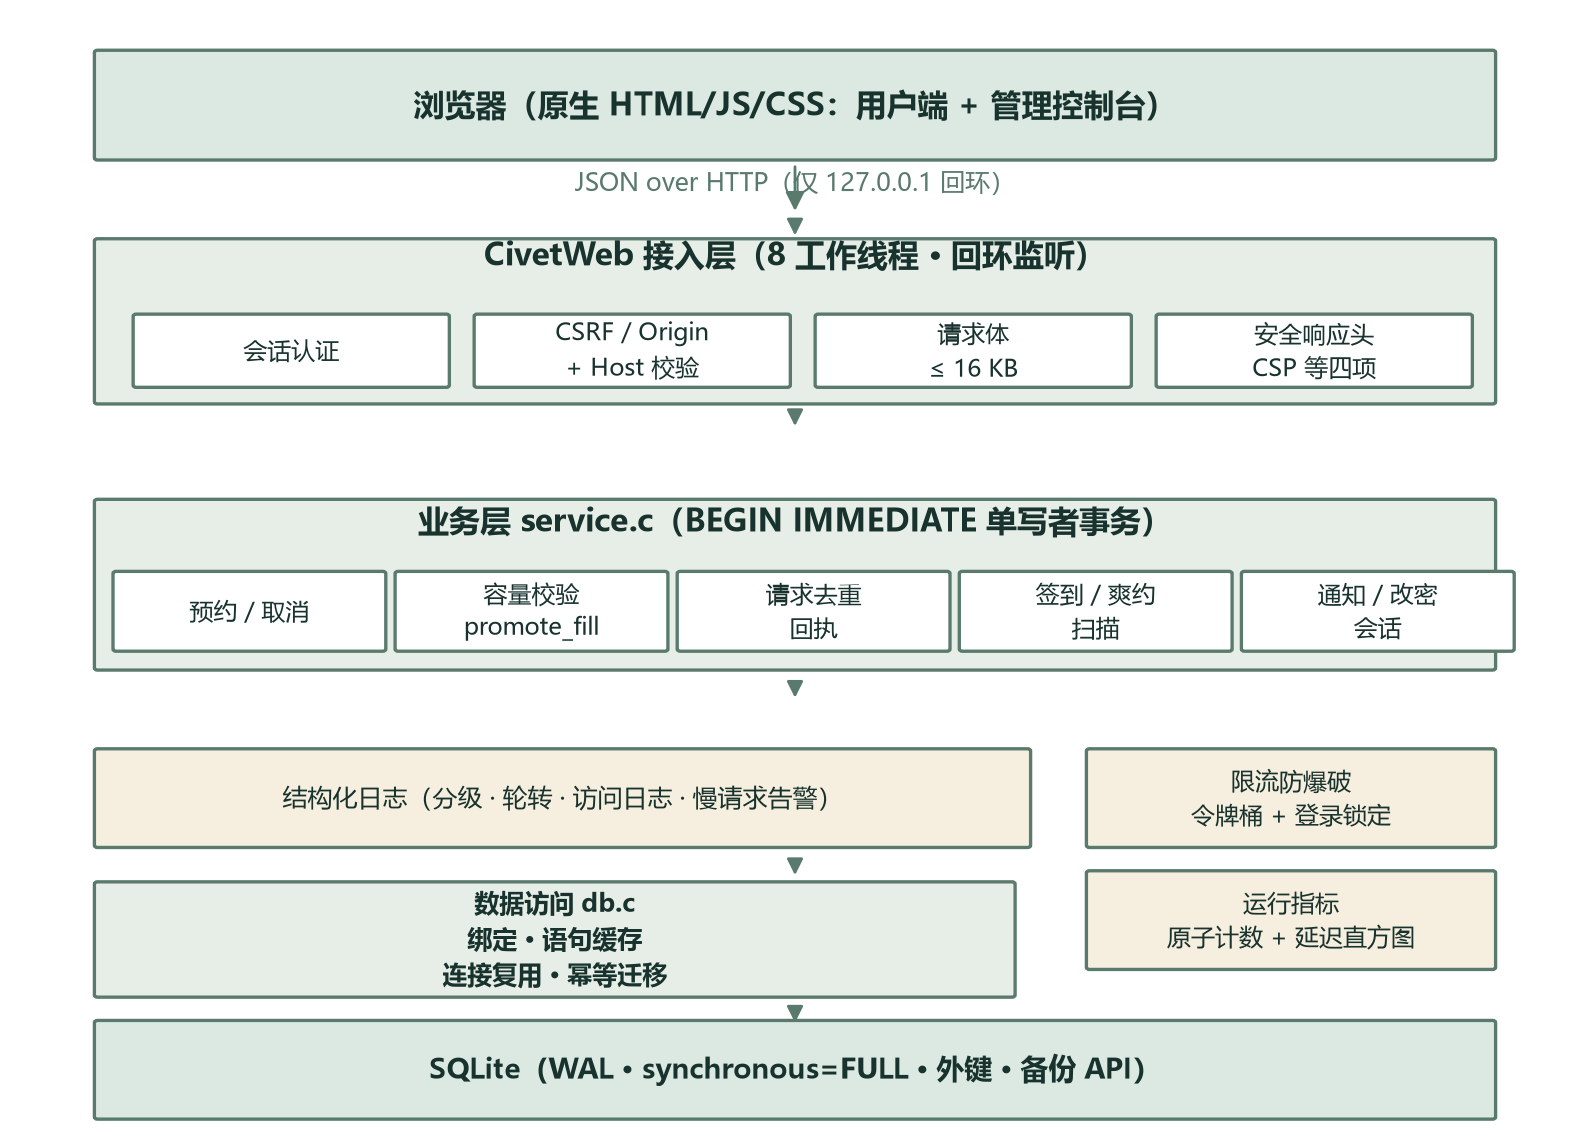
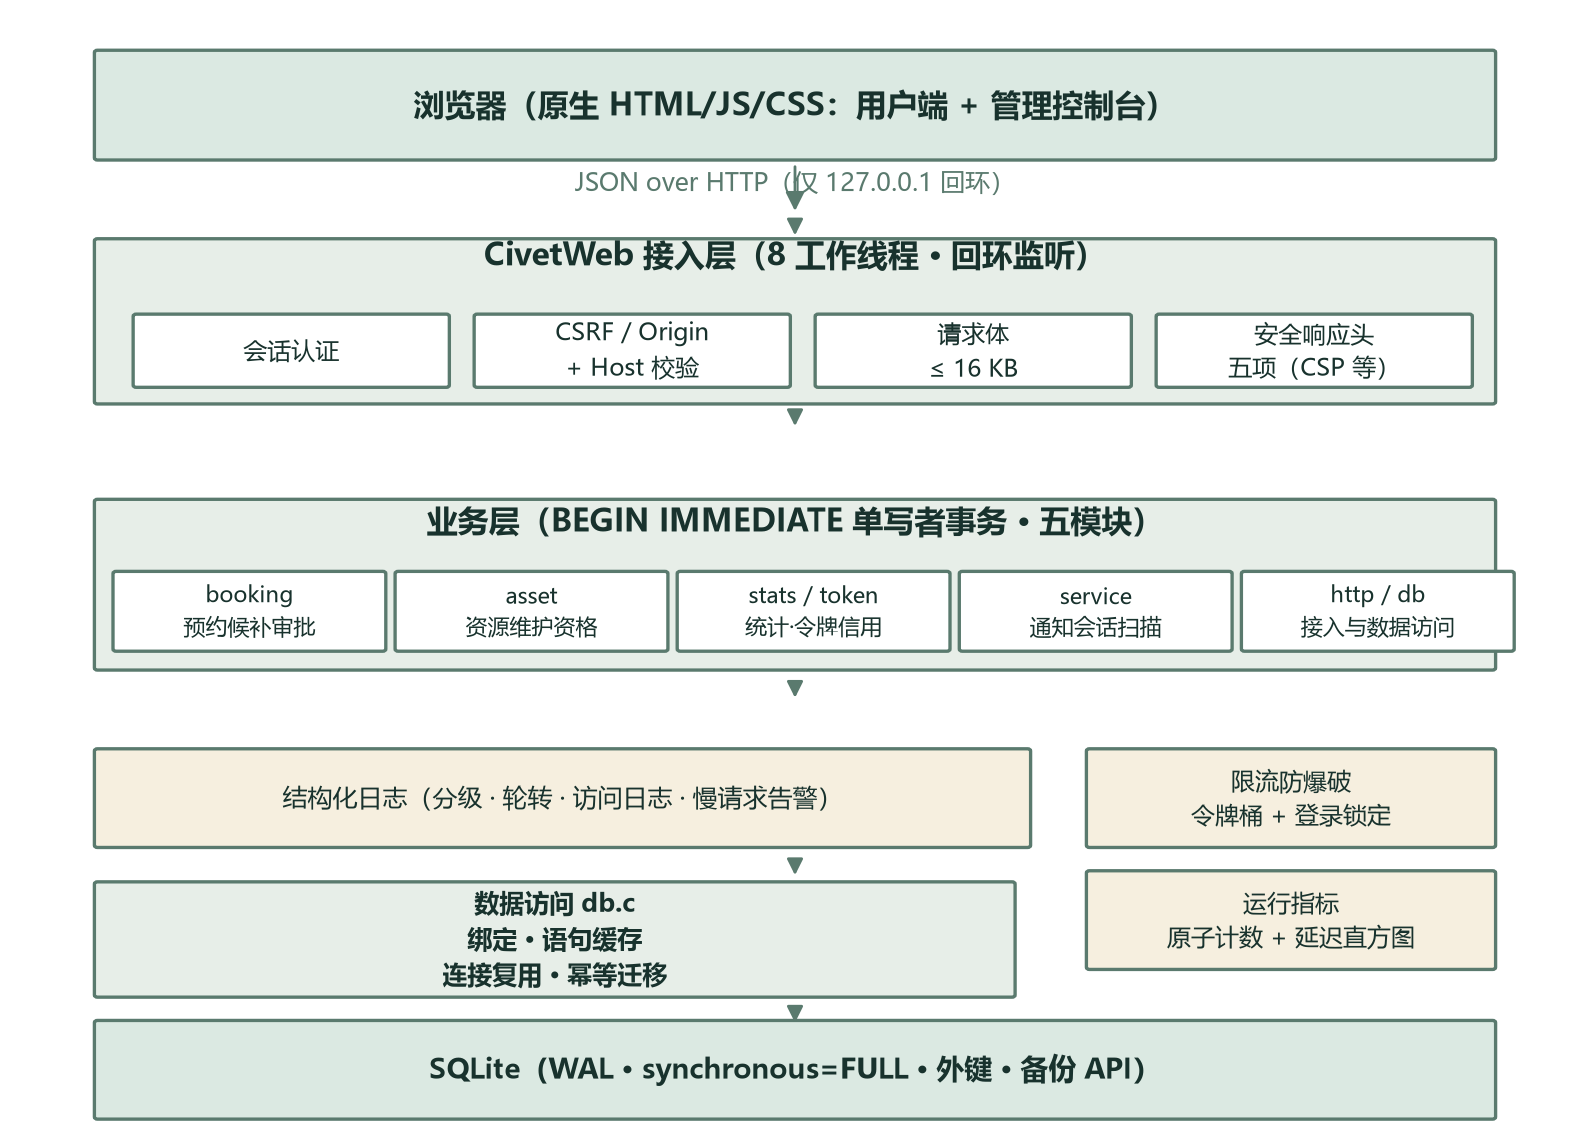
论文深度优化：结构补强（用例图/FR/NFR 表/章末小结/代码呈现）+ 学术规范（17 文献上标引用/三线表/TNR）+ 冗余消减 + 硬伤修复 (#7)
P0 硬伤：6.2 单元 24→25、附录 A 52→56 端点、摘要/3.4/1.3 三通道→四通道（三处）、
图 4-4/4-5/4-6 正文引用错位修正、6.7 补图 6-1 引用；figures 同步（图 4-1 业务层
五模块+五安全头、图 4-3 取消五分/预约五态候补四态）。

P1 结构：新增图 3-1 用例图（零溢出校验过）；3.2 FR-01~10 编号表、3.4 NFR 量化表
（与第 6 章验证通道追溯）；第 1-6 章各增本章小结；5.3 增三段代码呈现（booking 伪代码/
回执 SQL/weighted 评分真实摘录）；7.2 展望按近中远期三层展开；致谢扩写；关键词 7→5。

P2 规范：参考文献 12→17 条（补 RFC9106/VLDB SQLite/Jain TR-301/OWASP/Fielding REST，
补 EB/OL 访问日期，修 libsodium 著录）；正文 17 处上标引用全覆盖；表格改三线表；
正文西文统一 Times New Roman；2.2 安全头四项→五项。

P3 冗余：4.4.7 改回引 BR 不再复述规则；6.6 文字改定性指向表 6-3；大纲重写为 v3
（11 图 7 表清单、BR1-21、3,300 行口径）。

自查：17 文献全被引用、图 3-1~6-1 全有正文引用、docx 零 [[ 残留、旧口径零残留；
docx 已桌面交付（不入库）。

diff --git a/docs/thesis/figures.py b/docs/thesis/figures.py
@@ -92,6 +92,27 @@ def save(fig, name):
     fig.savefig(OUT / name, dpi=200, bbox_inches="tight", facecolor="white")
     plt.close(fig); print("saved", name)
 
+# ---- 图3-1 系统用例图（学生 / 管理员双角色，系统边界内两列用例） ----
+fig, ax = canvas(10, 7.2)
+ax.add_patch(Rectangle((1.9, 0.35), 6.5, 6.5, fc="white", ec=BD, lw=1.6))
+note(ax, 5.15, 6.55, "实验室资源管理与预约候补一体化系统", ha="center", fontsize=10.5, fontweight="bold", color=G)
+box(ax, 0.15, 3.3, 1.35, 1.0, "学生\n（普通用户）", fc="#dbe9e2", bold=True, fs=9.5, name="3-1actorS")
+box(ax, 8.6, 3.3, 1.3, 1.0, "管理员", fc="#dbe9e2", bold=True, fs=9.5, name="3-1actorA")
+left_uc = ["注册 / 登录 / 改密", "查询场次与资源", "预约 / 改期 / 取消", "加入候补 / 退出",
+           "签到 / 签退", "查看记录与通知", "管理 API 令牌"]
+right_uc = ["发布 / 调整场次", "预约审批（含批量）", "用户与凭据管理", "强制取消 / 代签退",
+            "资源维护 / 资格授权", "统计 / 导出 / 监控", "通知发布 / 公告"]
+for i, t in enumerate(left_uc):
+    y = 5.5 - i * 0.75
+    box(ax, 2.15, y, 2.9, 0.6, t, fc="#f4f8f6", fs=8.5, name=f"3-1L{i}")
+    ax.plot([1.5, 2.15], [3.8, y + 0.3], color=BD, lw=0.9)
+for i, t in enumerate(right_uc):
+    y = 5.5 - i * 0.75
+    box(ax, 5.35, y, 2.9, 0.6, t, fc="#f4f8f6", fs=8.5, name=f"3-1R{i}")
+    ax.plot([8.25, 8.6], [y + 0.3, 3.8], color=BD, lw=0.9)
+note(ax, 5.15, 0.62, "管理员经用户入口亦可执行学生侧全部用例（role_hint 双入口，正文 5.2）", ha="center", fontsize=8.6, color=BD)
+save(fig, "fig3-1-usecase.png")
+
 # ---- 图4-1 系统总体架构（重排：子框两行化、横幅拆行、层距加大） ----
 fig, ax = canvas(10, 7.2)
 box(ax, 0.5, 8.75, 9, 0.95, "浏览器（原生 HTML/JS/CSS：用户端 + 管理控制台）", fc="#dbe9e2", bold=True, fs=11, name="4-1浏览器")
@@ -99,12 +120,12 @@ note(ax, 5, 8.45, "JSON over HTTP（仅 127.0.0.1 回环）", ha="center", fonts
 ax.add_patch(FancyArrowPatch((5, 8.72), (5, 8.22), arrowstyle="-|>", mutation_scale=14, color=BD))
 box(ax, 0.5, 6.55, 9, 1.45, "", fc=GB, ec=BD)
 ax.text(5, 7.78, "CivetWeb 接入层（8 工作线程 · 回环监听）", ha="center", fontsize=11, fontweight="bold", color=TX)
-for i, t in enumerate(["会话认证", "CSRF / Origin\n+ Host 校验", "请求体\n≤ 16 KB", "安全响应头\nCSP 等四项"]):
+for i, t in enumerate(["会话认证", "CSRF / Origin\n+ Host 校验", "请求体\n≤ 16 KB", "安全响应头\n五项（CSP 等）"]):
     box(ax, 0.75 + i * 2.2, 6.7, 2.0, 0.62, t, fc="white", fs=8.5, name=f"4-1接入{i}")
 box(ax, 0.5, 4.15, 9, 1.5, "", fc=GB, ec=BD)
-ax.text(5, 5.38, "业务层 service.c（BEGIN IMMEDIATE 单写者事务）", ha="center", fontsize=11, fontweight="bold", color=TX)
-for i, t in enumerate(["预约 / 取消", "容量校验\npromote_fill", "请求去重\n回执", "签到 / 爽约\n扫描", "通知 / 改密\n会话"]):
-    box(ax, 0.62 + i * 1.82, 4.32, 1.72, 0.68, t, fc="white", fs=8.5, name=f"4-1业务{i}")
+ax.text(5, 5.38, "业务层（BEGIN IMMEDIATE 单写者事务 · 五模块）", ha="center", fontsize=11, fontweight="bold", color=TX)
+for i, t in enumerate(["booking\n预约候补审批", "asset\n资源维护资格", "stats / token\n统计·令牌信用", "service\n通知会话扫描", "http / db\n接入与数据访问"]):
+    box(ax, 0.62 + i * 1.82, 4.32, 1.72, 0.68, t, fc="white", fs=7.8, name=f"4-1业务{i}")
 box(ax, 6.9, 2.55, 2.6, 0.85, "限流防爆破\n令牌桶 + 登录锁定", fc="#f6efdf", fs=8.5, name="4-1限流")
 box(ax, 6.9, 1.45, 2.6, 0.85, "运行指标\n原子计数 + 延迟直方图", fc="#f6efdf", fs=8.5, name="4-1指标")
 box(ax, 0.5, 2.55, 6.0, 0.85, "结构化日志（分级 · 轮转 · 访问日志 · 慢请求告警）", fc="#f6efdf", fs=9, name="4-1日志")
@@ -160,9 +181,9 @@ note(ax, 0.25, 1.15, "不变量：每场次占容（CONFIRMED+HELD）≤ capacit
      fontsize=8.2, color=G, ha="left", linespacing=1.5)
 save(fig, "fig4-2-er.png")
 
-# ---- 图4-3 状态转换图（v1.13.0 七态口径：预约 PENDING/CONFIRMED/HELD/CANCELLED/EXPIRED + 候补 WAITING/PROMOTED/WITHDRAWN/SKIPPED） ----
+# ---- 图4-3 状态转换图（预约五态：PENDING/CONFIRMED/HELD/CANCELLED/EXPIRED + 候补四态：WAITING/PROMOTED/WITHDRAWN/SKIPPED） ----
 fig, ax = canvas(10.5, 6.4, xr=10.5, yr=10.6)
-note(ax, 0.35, 10.15, "预约状态机（7 态）", fontsize=10.5, fontweight="bold", color=G)
+note(ax, 0.35, 10.15, "预约状态机（五态）", fontsize=10.5, fontweight="bold", color=G)
 box(ax, 0.6, 8.6, 2.0, 0.9, "PENDING\n待审批（不占容）", fc="#fdeecd", bold=True, fs=9.5, name="4-3PEND")
 box(ax, 4.0, 8.6, 2.3, 0.9, "CONFIRMED\n有效预约（占容）", fc="#cfe3d8", bold=True, fs=9.5, name="4-3CONF")
 box(ax, 8.0, 8.6, 2.1, 0.9, "HELD\n限时保留（占容）", fc="#dce8f5", bold=True, fs=9.5, name="4-3HELD")
@@ -178,14 +199,13 @@ arrow(ax, 6.3, 8.6, 4.9, 7.0)
 note(ax, 5.75, 7.7, "取消 USER / 爽约 NO_SHOW / 抢占 PREEMPTED", ha="center", fontsize=8.4, color=BD)
 arrow(ax, 9.05, 8.6, 9.05, 7.0)
 note(ax, 9.9, 7.8, "超时扫描\n(hold_deadline)", ha="center", fontsize=8.6, color=BD, linespacing=1.4)
-note(ax, 5.15, 5.7, "取消原因四分：USER / NO_SHOW / REJECTED / PREEMPTED；CONFIRMED 期间可签到—签退（不产生新状态）",
-     ha="center", fontsize=8.6, color=BD)
-note(ax, 0.35, 4.75, "候补状态机", fontsize=10.5, fontweight="bold", color=G)
+note(ax, 0.35, 2.3, "取消原因五分：USER / NO_SHOW /\nREJECTED / PREEMPTED / ADMIN\nCONFIRMED 期间可签到—签退", fontsize=8.2, color=BD, ha="left", linespacing=1.4)
+note(ax, 0.35, 4.75, "候补状态机（四态）", fontsize=10.5, fontweight="bold", color=G)
 box(ax, 0.6, 3.4, 2.0, 0.9, "WAITING\n候补排队", fc="#fdf3d8", bold=True, fs=9.5, name="4-3WAIT")
 box(ax, 4.0, 3.4, 2.3, 0.9, "PROMOTED\n已递补", fc="#dbe9e2", bold=True, fs=9.5, name="4-3PROM")
 box(ax, 7.2, 3.4, 1.9, 0.9, "WITHDRAWN\n已退出", fc="white", fs=9.5, name="4-3WD")
 arrow(ax, 2.6, 3.85, 4.0, 3.85)
-note(ax, 3.3, 4.95, "可执行 FIFO（默认）：priority DESC,id 扫描\n暂跳冲突者；strict：队首阻塞", ha="center", fontsize=8.4, color=BD, linespacing=1.4)
+note(ax, 3.35, 5.15, "可执行 FIFO（默认）：priority DESC,id 扫描\n暂跳冲突者；strict：队首阻塞", ha="center", fontsize=8.4, color=BD, linespacing=1.4)
 arrow(ax, 1.6, 4.42, 7.7, 4.42)
 note(ax, 3.4, 2.55, "用户主动退出", ha="center", fontsize=8.6, color=BD)
 box(ax, 7.0, 1.7, 1.9, 0.8, "SKIPPED\n已跳过", fc="white", fs=9.5, name="4-3SKIP")

diff --git a/docs/thesis/论文大纲.md b/docs/thesis/论文大纲.md
@@ -1,55 +1,56 @@
-# 毕业论文大纲与图表清单（v2，已随 r12 定稿）
+# 毕业论文大纲与图表清单（v3，随深度优化轮定稿）
 
 > 课题名称：**基于 C 语言的实验室资源管理与预约候补一体化系统设计与实现**（导师三选一确认，2026-09-14）
-> 状态：正文已由 docs/thesis/thesis_gen.py 程序化生成（约 1.67 万字、54 个标题、4 表、6 图；初稿 docx 本地生成、不入库）。
-> v2 变更：纳入 r9–r12 四轮成果（管理控制台、签到、通知、提醒、备份、日志、爽约信用、重叠检测、归档、四通道 CI/ASan、计时旁路实验）。
+> 状态：正文已由 docs/thesis/thesis_gen.py 程序化生成（约 2.0 万字、60+ 标题、7 表（6 编号 + 附录 1）、11 图；初稿 docx 本地生成、不入库）。
+> v3 变更（深度优化轮）：新增图 3-1 用例图、表 3-1 FR 清单、表 3-2 NFR 量化表；第 5 章补三段代码/伪代码摘录；各章增本章小结；参考文献 12→17 条并加正文上标引用；表格改三线表、西文 Times New Roman；7.2 展望按近/中/远期展开；修复数字矛盾与图编号交叉引用错位。
 
 ## 章节结构（与生成器一一对应）
 
 ### 摘要（中英文）
-问题 → 方法（单写者事务 + 请求回执 + 扫描线程 + 管理控制台/提醒/备份/信用/重叠）→ 结果（25 单元 + 79 集成、720 并发零超卖、30 次崩溃恢复、四通道 CI、计时旁路 1.07、读吞吐 +541%）→ 关键词含 AddressSanitizer。
+问题 → 方法（单写者事务 + 请求回执 + 扫描线程 + 管理控制台/提醒/备份/信用/重叠）→ 结果（25 单元 + 79 集成、720 并发零超卖、30 次崩溃恢复、四通道 CI、计时旁路 1.07、读吞吐 +541%）→ 关键词 5 条（实验室预约；候补队列；事务一致性；幂等请求；C 语言）。
 
 ### 第 1 章 绪论
-1.1 背景与意义；1.2 国内外现状；1.3 主要工作（五项：业务闭环、两项关键机制、管理运营能力、五层验证+四通道 CI、性能与安全实验）；1.4 组织结构。
+1.1 背景与意义；1.2 国内外现状；1.3 主要工作（五项：业务闭环、两项关键机制、管理运营能力、五层验证+四通道 CI、性能与安全实验）；1.4 创新点（三条）；1.5 组织结构；1.6 本章小结。
 
 ### 第 2 章 相关技术
-2.1 C11 与 MinGW-w64；2.2 CivetWeb（含 additional_header 安全头与 static_file_cache_control）；2.3 SQLite 与事务模型；2.4 cJSON 与 libsodium；2.5 前端技术。
+2.1 C11 与 MinGW-w64；2.2 CivetWeb（五项安全响应头双通道下发）；2.3 SQLite 与事务模型；2.4 cJSON 与 libsodium（Argon2id）；2.5 前端技术（严格 CSP）；2.6 本章小结。
 
 ### 第 3 章 需求分析
-3.1 角色与用例（含管理员完整职能与双入口登录）；3.2 功能需求（含提醒、通知分页、用户管理、日志查看）；3.3 业务规则 **BR1–BR11**（新增 BR10 爽约信用、BR11 时间重叠）；3.4 非功能需求（新增无侧信道、可运营性）。
+3.1 角色与用例（**图 3-1 用例图**，双入口登录）；3.2 功能需求（**表 3-1 FR-01～FR-10 编号清单**，与测试断言组追溯）；3.3 业务规则 **BR1–BR21**（含语义澄清基准五条）；3.4 非功能需求（**表 3-2 NFR 量化指标 × 验证通道**）；3.5 本章小结。
 
 ### 第 4 章 系统设计
-4.1 总体架构（图 4-1）；4.2 数据库设计（图 4-2，迁移 v2→v3→v4：reminded_at 加列 + notifications kind CHECK 重建）；4.3 状态转换（图 4-3）；4.4 关键机制：4.4.1 单写者事务与容量不变量；4.4.2 持久化回执去重（图 4-4）；4.4.3 取消补位与爽约回收（图 4-5、4-6）；4.4.4 会话与传输安全（含 role_hint 与哑哈希防侧信道）；**4.4.5 后台任务：提醒、备份与归档**；**4.4.6 业务约束：爽约信用与时间重叠**。
+4.1 总体架构（图 4-1，五层 + 业务层五模块）；4.2 数据库设计（图 4-2，17 表 schema v5 幂等迁移）；4.3 状态转换（图 4-3，预约五态 + 候补四态、取消原因五分）；4.4 关键机制：4.4.1 单写者事务与容量不变量；4.4.2 持久化回执去重（图 4-4）；4.4.3 取消补位与爽约回收（图 4-5、4-6）；4.4.4 会话与传输安全；4.4.5 后台任务；4.4.6 业务约束；**4.4.7 候补策略、审批流与信用账户（回引 BR，不重述）**；4.5 本章小结。
 
 ### 第 5 章 系统实现
-5.1 环境与构建（1,600 行 C / 260 行前端 / 3,400 行测试，四构建目标，CLI 参数）；5.2 HTTP 接入与会话安全；5.3 事务与去重核心（含信用与重叠检查位置）；5.4 连接复用与语句缓存；5.5 签到、爽约与提醒实现；**5.6 管理控制台与运营功能实现**（十二页签含资源管理、SVG 图表、利用率表、备份轮转、归档、演示数据生成器）；5.7 分页、统计导出与其他。
+5.1 环境与构建（3,300 行 C / 800 行脚本 + 850 行样式 / 7,200 行测试；五模块拆分与行多重集审计；四构建目标）；5.2 HTTP 接入与会话安全；5.3 事务与去重核心（**含 booking() 伪代码、回执 SQL、weighted 评分 C 摘录三段**）；5.4 连接复用与语句缓存；5.5 签到、爽约与提醒实现；5.6 管理控制台与运营功能（十二页签 + v1.17.0 四聚合端点）；5.7 分页、统计导出与 outbox 通知派发；5.8 本章小结。
 
 ### 第 6 章 系统测试
-6.1 五层策略 + **四通道 CI 门禁**（构建集成 / 契约文档一致性 / 静态分析 / llvm-mingw ASan 真门禁）；6.2 单元 25 用例与 gcov 覆盖率（表 6-1）；6.3 功能安全运营回归 79 项（T01–T78 及 CLI 检查，含审批流、候补策略、信用账户、资格授权、组合验证 T63–T67、策略治理与差分属性 T70–T74、管理操作 T75–T78）；6.4 并发争抢 720 请求（表 6-2）；6.5 故障注入 30 次三类；6.6 性能对比（表 6-3）；6.7 **计时旁路实验（1.07x/1.03x，降低账号枚举可观测差异）** + 模糊 720 + 浸泡 30,892 请求；6.8 调试记录 **十一例**（SQL 绑定格式串错位/变参宽度/int 变参 UB/jstr 数字列静默退化/种子伪幂等/CSP 误伤/realloc 失败泄漏 CWE-401 等，多例为同类多 instance）；6.9 浏览器端到端验收（含控制台十二页签与强制操作 case8）。
+6.1 五层策略 + 四通道 CI 门禁；6.2 单元 25 用例与覆盖率（表 6-1）；6.3 回归 79 项（T01–T78 及 CLI，组合验证 T63–T67、策略治理与差分属性 T70–T74、管理操作 T75–T78）；6.4 并发争抢 720 请求（表 6-2）；6.5 故障注入 30 次三类；6.6 性能对比（表 6-3）；6.7 候补策略矩阵（表 6-4 + **图 6-1**）；6.8 安全与稳健（计时旁路 1.07/1.03、模糊 720、浸泡 30,892）；6.9 调试记录 **十一例**（含 realloc CWE-401）；6.10 浏览器端到端验收（十二页签 + 强制操作 case8）；6.11 本章小结。
 
 ### 第 7 章 总结与展望
-7.1 五项成果对照；7.2 不足与展望（TLS、多实例、门禁对接、推送渠道）。
+7.1 工作总结（五阶段 + 成果指标）；7.2 不足与展望（**近/中/远期三层**：TLS 与通知渠道 → 多实例与写并发分片 → 门禁对接与数据挖掘推荐）。
 
-### 参考文献 / 致谢 / 附录 A 接口契约摘要（20 余端点分类表）/ 附录 B 运行说明
+### 参考文献（17 条，正文带上标引用）/ 致谢 / 附录 A 接口契约摘要（56 端点分类表）/ 附录 B 运行说明
 
 ## 图表清单
 
 | 编号 | 内容 | 状态 |
 | --- | --- | --- |
-| 图 4-1 | 系统总体架构 | figures/fig4-1-architecture.png |
-| 图 4-2 | ER 图（标注 schema v3，v4 仅加列与 CHECK 重建） | figures/fig4-2-er.png |
-| 图 4-3 | 预约与候补状态转换 | figures/fig4-3-states.png |
+| 图 3-1 | 系统用例图（学生/管理员双角色） | figures/fig3-1-usecase.png（本轮新增） |
+| 图 4-1 | 系统总体架构（五模块 + 五安全头） | figures/fig4-1-architecture.png（本轮更新） |
+| 图 4-2 | ER 图（核心 11 表，schema v5 共 17 表） | figures/fig4-2-er.png |
+| 图 4-3 | 预约与候补状态转换（五态/四态、取消五分） | figures/fig4-3-states.png（本轮更新） |
 | 图 4-4 | 请求去重回执判定 | figures/fig4-6-dedup.png |
 | 图 4-5/4-6 | 取消—补位 / 签到—爽约扫描时序 | figures/fig4-4/fig4-5 |
-| 表 6-1 | 源文件行覆盖率 | gcov 实测 |
-| 表 6-2 | 并发争抢实验 | evidence/results-full |
-| 表 6-3 | 性能优化对比 | evidence/benchmark |
-| 图 5-x（可选） | 管理控制台截图（统计图表/用户管理/日志） | 后续轮次验收截图 |
+| 图 5-1~5-3 | 管理控制台截图（概览/用户管理/统计图表） | docs/evidence/ui/ |
+| 图 6-1 | 三策略×四档矩阵（等待柱状 + Jain 折线） | figures/fig6-1-strategies.png |
+| 表 3-1 | 功能需求清单（FR-01～FR-10） | 本轮新增 |
+| 表 3-2 | 非功能需求量化指标（NFR × 验证通道） | 本轮新增 |
+| 表 6-1~6-4 | 覆盖率 / 并发争抢 / 性能对比 / 策略矩阵 | evidence 归档 |
+| 附录表 | 接口契约摘要（56 端点分类） | CONTRACT.md 同步 |
 
 ## 待办
 
-1. ~~学校格式模板~~ **暂无模板——已做无模板预案**：thesis_gen.py 顶部集中 STYLE 样式块（字体/字号/行距/边距），已内置目录（TOC 域，Word 中 Ctrl+A→F9 更新）、页脚页码、1.5 倍行距、两字符首行缩进等通用必备要素；模板到位后只改 STYLE 块即可套排；
-2. 图 4-2 ER 图横幅已更新为 schema v2→v4；
-3. 第 5 章已含三张管理控制台截图（图 5-1~5-3）；
-4. 参考文献按学校要求核对著录格式（当前 GB/T 7714 风格）。
-5. **格式基线：按维普规范**（2026-09-13 确认）——标题层级阿拉伯数字编号（1 / 1.1 / 1.1.1，不带"第 X 章"）、英文摘要与关键词 Times New Roman、正文宋体小四 1.5 倍行距、图题图下表题表上、参考文献 GB/T 7714 五号、目录 TOC 域 + 页脚页码；格式参数集中在 thesis_gen.py 顶部 STYLE 块。
+1. ~~学校格式模板~~ **暂无模板——已做无模板预案**：thesis_gen.py 顶部集中 STYLE 样式块；模板到位后只改 STYLE 块即可套排；
+2. ~~参考文献著录核对~~ 已按 GB/T 7714 补 [EB/OL] 访问日期并修正著录（17 条）；
+3. **格式基线：按维普规范**——标题层级阿拉伯数字编号、英文摘要与关键词 Times New Roman、正文宋体小四 1.5 倍行距、**三线表**、图题图下表题表上、参考文献 GB/T 7714、目录 TOC 域（Word 中 Ctrl+A→F9 更新）+ 页脚页码。
